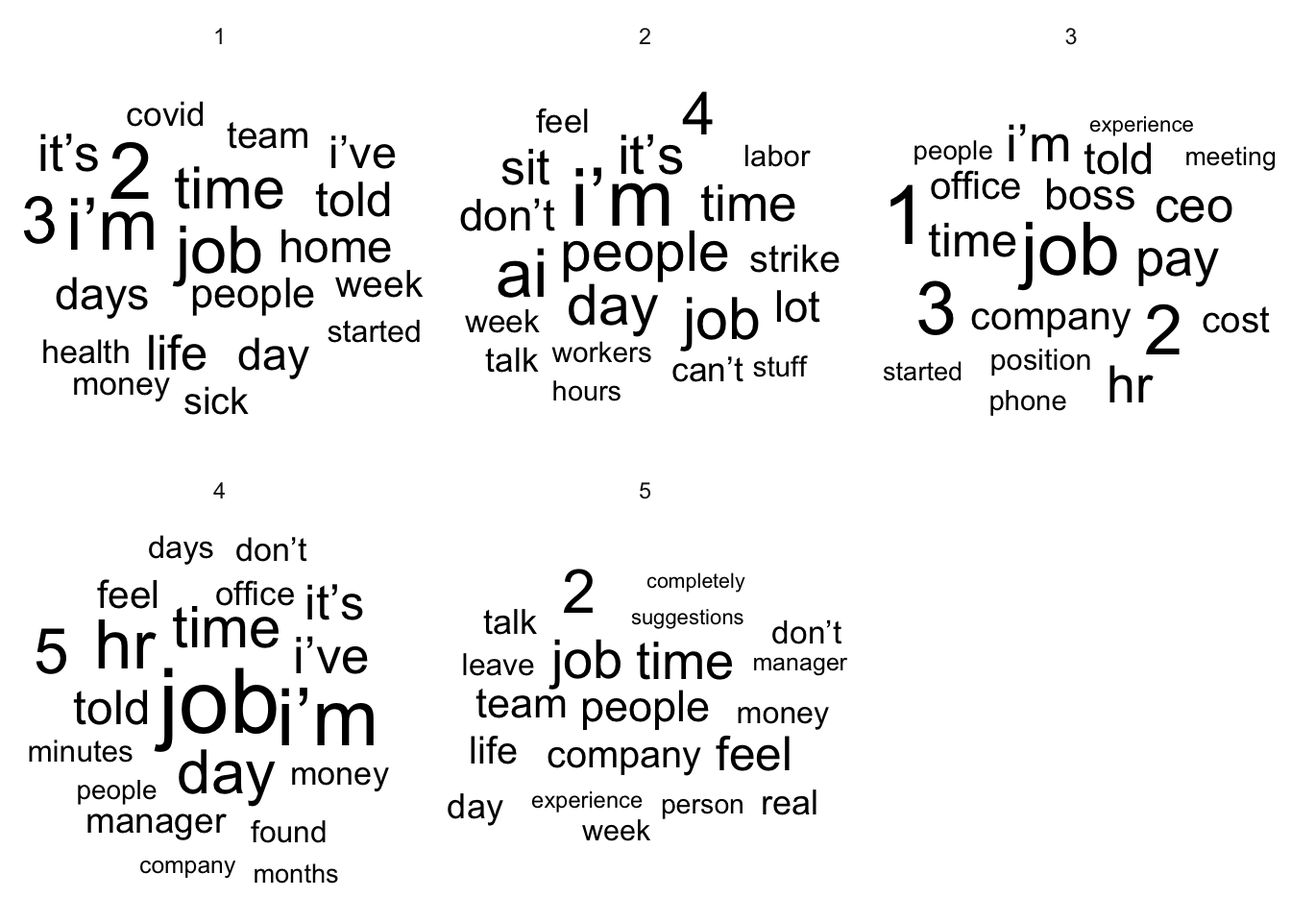
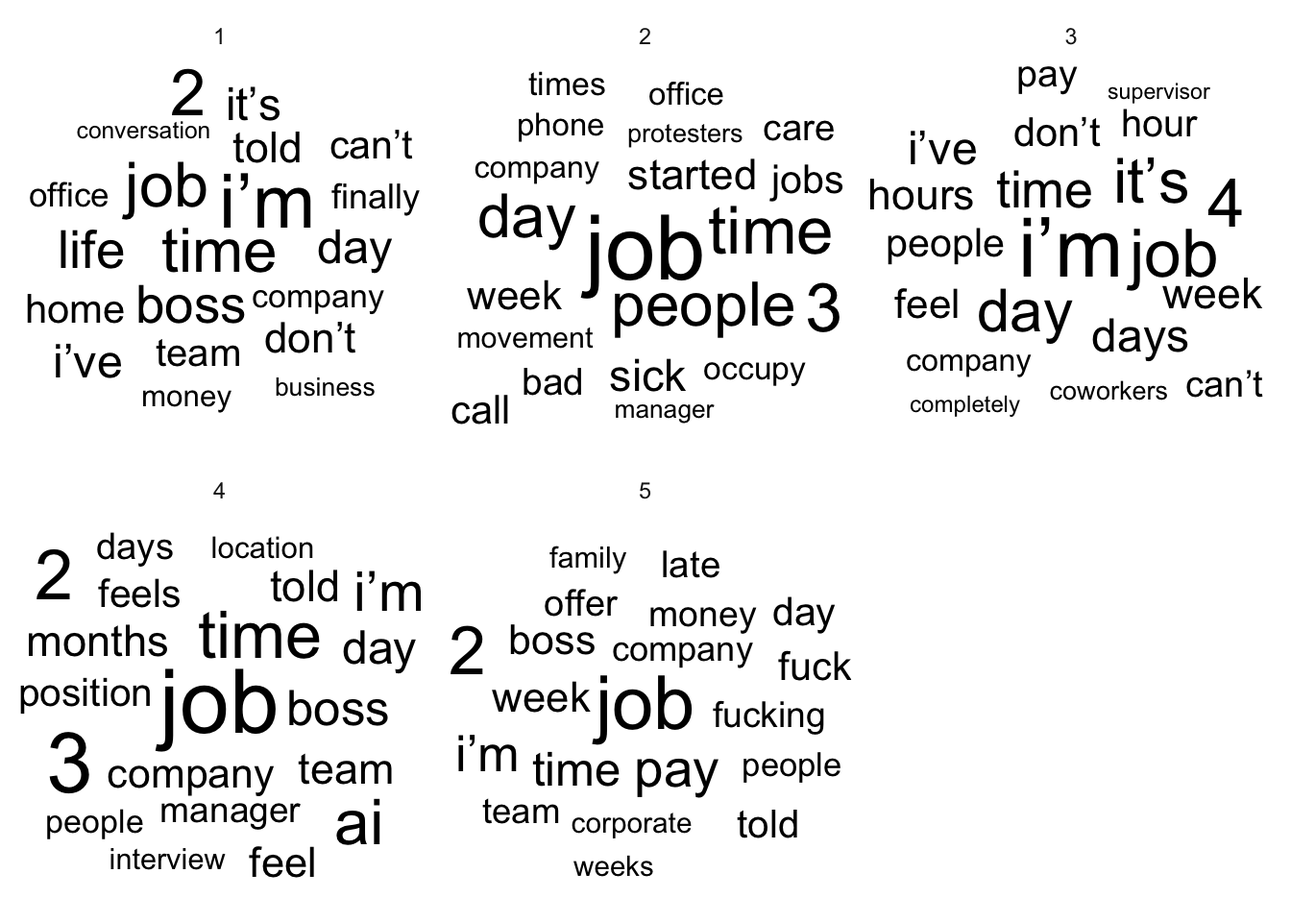
Built site for gh-pages

diff --git a/Work Examples/Work_Examples/ex1.html b/Work Examples/Work_Examples/ex1.html
@@ -261,46 +261,46 @@ $ allow_live_comments           &lt;lgl&gt; FALSE, FALSE, FALSE, FALSE, FALSE, F
 $ approved_at_utc               &lt;lgl&gt; NA, NA, NA, NA, NA, NA, NA, NA, NA, NA
 $ approved_by                   &lt;lgl&gt; NA, NA, NA, NA, NA, NA, NA, NA, NA, NA
 $ archived                      &lt;lgl&gt; FALSE, FALSE, FALSE, FALSE, FALSE, FALSE…
-$ author                        &lt;chr&gt; "Big-Requirement-9676", "JamesParkes", "…
-$ author_flair_background_color &lt;chr&gt; NA, NA, "#dadada", NA, "", NA, NA, "", N…
+$ author                        &lt;chr&gt; "PineappleFast9439", "peppa_pig_enthusia…
+$ author_flair_background_color &lt;lgl&gt; NA, NA, NA, NA, NA, NA, NA, NA, NA, NA
 $ author_flair_css_class        &lt;lgl&gt; NA, NA, NA, NA, NA, NA, NA, NA, NA, NA
-$ author_flair_richtext         &lt;list&gt; [], [], [&lt;data.frame[1 x 2]&gt;], [], &lt;NULL…
-$ author_flair_template_id      &lt;chr&gt; NA, NA, "f4010ba2-d420-11e8-a457-0ef8e7b…
-$ author_flair_text             &lt;chr&gt; NA, NA, "at work", NA, NA, NA, NA, NA, N…
-$ author_flair_text_color       &lt;chr&gt; NA, NA, "dark", NA, "dark", NA, NA, "dar…
-$ author_flair_type             &lt;chr&gt; "text", "text", "richtext", "text", NA,…
-$ author_fullname               &lt;chr&gt; "t2_qfaduhqq", "t2_96cas", "t2_2im5rydez…
+$ author_flair_richtext         &lt;list&gt; [], [], [], [], [], [], [], [], [], []
+$ author_flair_template_id      &lt;lgl&gt; NA, NA, NA, NA, NA, NA, NA, NA, NA, NA
+$ author_flair_text             &lt;lgl&gt; NA, NA, NA, NA, NA, NA, NA, NA, NA, NA
+$ author_flair_text_color       &lt;lgl&gt; NA, NA, NA, NA, NA, NA, NA, NA, NA, NA
+$ author_flair_type             &lt;chr&gt; "text", "text", "text", "text", "text", …
+$ author_fullname               &lt;chr&gt; "t2_2bpfk4i1pu", "t2_i429aj24", "t2_1ilb…
 $ author_is_blocked             &lt;lgl&gt; FALSE, FALSE, FALSE, FALSE, FALSE, FALSE…
-$ author_patreon_flair          &lt;lgl&gt; FALSE, FALSE, FALSE, FALSE, NA, FALSE, F…
-$ author_premium                &lt;lgl&gt; FALSE, FALSE, FALSE, FALSE, NA, FALSE, F…
+$ author_patreon_flair          &lt;lgl&gt; FALSE, FALSE, FALSE, FALSE, FALSE, FALSE…
+$ author_premium                &lt;lgl&gt; FALSE, FALSE, FALSE, FALSE, FALSE, FALSE…
 $ awarders                      &lt;list&gt; [], [], [], [], [], [], [], [], [], []
 $ banned_at_utc                 &lt;lgl&gt; NA, NA, NA, NA, NA, NA, NA, NA, NA, NA
 $ banned_by                     &lt;lgl&gt; NA, NA, NA, NA, NA, NA, NA, NA, NA, NA
-$ can_gild                      &lt;lgl&gt; FALSE, FALSE, FALSE, FALSE, FALSE, FALSE…
+$ can_gild                      &lt;lgl&gt; FALSE, FALSE, FALSE, FALSE, FALSE, FALS…
 $ can_mod_post                  &lt;lgl&gt; FALSE, FALSE, FALSE, FALSE, FALSE, FALSE…
 $ category                      &lt;lgl&gt; NA, NA, NA, NA, NA, NA, NA, NA, NA, NA
 $ clicked                       &lt;lgl&gt; FALSE, FALSE, FALSE, FALSE, FALSE, FALSE…
 $ content_categories            &lt;lgl&gt; NA, NA, NA, NA, NA, NA, NA, NA, NA, NA
 $ contest_mode                  &lt;lgl&gt; FALSE, FALSE, FALSE, FALSE, FALSE, FALSE…
-$ created                       &lt;int&gt; 1790130321, 1790128676, 1790125060, 179…
-$ created_utc                   &lt;int&gt; 1790130321, 1790128676, 1790125060, 1790…
+$ created                       &lt;int&gt; 1790702610, 1790701972, 1790699866, 1790…
+$ created_utc                   &lt;int&gt; 1790702610, 1790701972, 1790699866, 1790…
 $ discussion_type               &lt;lgl&gt; NA, NA, NA, NA, NA, NA, NA, NA, NA, NA
 $ distinguished                 &lt;lgl&gt; NA, NA, NA, NA, NA, NA, NA, NA, NA, NA
-$ domain                        &lt;chr&gt; "self.antiwork", "wsws.org", "self.antiw…
+$ domain                        &lt;chr&gt; "self.antiwork", "self.antiwork", "macru…
 $ downs                         &lt;int&gt; 0, 0, 0, 0, 0, 0, 0, 0, 0, 0
 $ edited                        &lt;lgl&gt; FALSE, FALSE, FALSE, FALSE, FALSE, FALSE…
 $ gilded                        &lt;int&gt; 0, 0, 0, 0, 0, 0, 0, 0, 0, 0
 $ gildings                      &lt;df[,0]&gt; &lt;data.frame[10 x 0]&gt;
 $ hidden                        &lt;lgl&gt; FALSE, FALSE, FALSE, FALSE, FALSE, FALSE…
-$ hide_score                    &lt;lgl&gt; TRUE, TRUE, TRUE, TRUE, TRUE, TRUE, TRUE…
-$ id                            &lt;chr&gt; "1wntha9", "1wnsvc5", "1wnrjja", "1wnr7a…
+$ hide_score                    &lt;lgl&gt; TRUE, TRUE, TRUE, TRUE, TRUE, TRUE, TRU…
+$ id                            &lt;chr&gt; "1wtg9ie", "1wtfzbv", "1wtf1ca", "1wteoq…
 $ is_created_from_ads_ui        &lt;lgl&gt; FALSE, FALSE, FALSE, FALSE, FALSE, FALSE…
 $ is_crosspostable              &lt;lgl&gt; FALSE, FALSE, FALSE, FALSE, FALSE, FALSE…
 $ is_meta                       &lt;lgl&gt; FALSE, FALSE, FALSE, FALSE, FALSE, FALSE…
 $ is_original_content           &lt;lgl&gt; FALSE, FALSE, FALSE, FALSE, FALSE, FALSE…
-$ is_reddit_media_domain        &lt;lgl&gt; FALSE, FALSE, FALSE, FALSE, TRUE, FALSE,…
-$ is_robot_indexable            &lt;lgl&gt; FALSE, TRUE, TRUE, FALSE, FALSE, TRUE, T…
-$ is_self                       &lt;lgl&gt; TRUE, FALSE, TRUE, FALSE, FALSE, TRUE, F…
+$ is_reddit_media_domain        &lt;lgl&gt; FALSE, FALSE, FALSE, FALSE, FALSE, FALSE…
+$ is_robot_indexable            &lt;lgl&gt; FALSE, FALSE, TRUE, TRUE, FALSE, TRUE, T…
+$ is_self                       &lt;lgl&gt; TRUE, TRUE, FALSE, FALSE, FALSE, TRUE, F…
 $ is_video                      &lt;lgl&gt; FALSE, FALSE, FALSE, FALSE, FALSE, FALSE…
 $ likes                         &lt;lgl&gt; NA, NA, NA, NA, NA, NA, NA, NA, NA, NA
 $ link_flair_background_color   &lt;chr&gt; "", "", "", "", "", "", "", "", "", ""
@@ -312,7 +312,7 @@ $ link_flair_type               &lt;chr&gt; "text", "text", "text", "text", "tex
 $ location_lat                  &lt;lgl&gt; NA, NA, NA, NA, NA, NA, NA, NA, NA, NA
 $ location_long                 &lt;lgl&gt; NA, NA, NA, NA, NA, NA, NA, NA, NA, NA
 $ location_name                 &lt;lgl&gt; NA, NA, NA, NA, NA, NA, NA, NA, NA, NA
-$ locked                        &lt;lgl&gt; FALSE, FALSE, FALSE, FALSE, FALSE, FA…
+$ locked                        &lt;lgl&gt; FALSE, FALSE, FALSE, FALSE, FALSE, FALSE…
 $ media                         &lt;lgl&gt; NA, NA, NA, NA, NA, NA, NA, NA, NA, NA
 $ media_embed                   &lt;df[,0]&gt; &lt;data.frame[10 x 0]&gt;
 $ media_only                    &lt;lgl&gt; FALSE, FALSE, FALSE, FALSE, FALSE, FALSE…
@@ -320,39 +320,39 @@ $ mod_note                      &lt;lgl&gt; NA, NA, NA, NA, NA, NA, NA, NA, NA, 
 $ mod_reason_by                 &lt;lgl&gt; NA, NA, NA, NA, NA, NA, NA, NA, NA, NA
 $ mod_reason_title              &lt;lgl&gt; NA, NA, NA, NA, NA, NA, NA, NA, NA, NA
 $ mod_reports                   &lt;list&gt; [], [], [], [], [], [], [], [], [], []
-$ name                          &lt;chr&gt; "t3_1wntha9", "t3_1wnsvc5", "t3_1wnrjja"…
-$ no_follow                     &lt;lgl&gt; TRUE, TRUE, FALSE, TRUE, TRUE, FALSE, TR…
+$ name                          &lt;chr&gt; "t3_1wtg9ie", "t3_1wtfzbv", "t3_1wtf1ca"…
+$ no_follow                     &lt;lgl&gt; TRUE, TRUE, TRUE, TRUE, TRUE, TRUE, TRUE…
 $ num_comments                  &lt;int&gt; 0, 0, 0, 0, 0, 0, 0, 0, 0, 0
 $ num_crossposts                &lt;int&gt; 0, 0, 0, 0, 0, 0, 0, 0, 0, 0
 $ num_reports                   &lt;lgl&gt; NA, NA, NA, NA, NA, NA, NA, NA, NA, NA
 $ over_18                       &lt;lgl&gt; FALSE, FALSE, FALSE, FALSE, FALSE, FALSE…
-$ permalink                     &lt;chr&gt; "/r/antiwork/comments/1wntha9/working_as…
+$ permalink                     &lt;chr&gt; "/r/antiwork/comments/1wtg9ie/gurgaon…
 $ pinned                        &lt;lgl&gt; FALSE, FALSE, FALSE, FALSE, FALSE, FALSE…
 $ pwls                          &lt;int&gt; 7, 7, 7, 7, 7, 7, 7, 7, 7, 7
 $ quarantine                    &lt;lgl&gt; FALSE, FALSE, FALSE, FALSE, FALSE, FALSE…
 $ removal_reason                &lt;lgl&gt; NA, NA, NA, NA, NA, NA, NA, NA, NA, NA
 $ removed_by                    &lt;lgl&gt; NA, NA, NA, NA, NA, NA, NA, NA, NA, NA
-$ removed_by_category           &lt;chr&gt; "moderator", NA, NA, "automod_filtered",…
+$ removed_by_category           &lt;chr&gt; "automod_filtered", "automod_filtered", …
 $ report_reasons                &lt;lgl&gt; NA, NA, NA, NA, NA, NA, NA, NA, NA, NA
-$ retrieved_on                  &lt;int&gt; 1790130347, 1790128697, 1790125081, 1790…
+$ retrieved_on                  &lt;int&gt; 1790702642, 1790701996, 1790699886, 1790…
 $ saved                         &lt;lgl&gt; FALSE, FALSE, FALSE, FALSE, FALSE, FALSE…
 $ score                         &lt;int&gt; 1, 1, 1, 1, 1, 1, 1, 1, 1, 1
 $ secure_media                  &lt;lgl&gt; NA, NA, NA, NA, NA, NA, NA, NA, NA, NA
 $ secure_media_embed            &lt;df[,0]&gt; &lt;data.frame[10 x 0]&gt;
-$ selftext                      &lt;chr&gt; "[removed]", "", "I've worked here a lit…
+$ selftext                      &lt;chr&gt; "[removed]", "[removed]", "They canceled…
 $ send_replies                  &lt;lgl&gt; TRUE, TRUE, TRUE, TRUE, TRUE, TRUE, TRUE…
 $ spoiler                       &lt;lgl&gt; FALSE, FALSE, FALSE, FALSE, FALSE, FALSE…
 $ stickied                      &lt;lgl&gt; FALSE, FALSE, FALSE, FALSE, FALSE, FALSE…
-$ subreddit                     &lt;chr&gt; "antiwork", "antiwork", "antiwork", "an…
+$ subreddit                     &lt;chr&gt; "antiwork", "antiwork", "antiwork", "ant…
 $ subreddit_id                  &lt;chr&gt; "t5_2y77d", "t5_2y77d", "t5_2y77d", "t5_…
 $ subreddit_name_prefixed       &lt;chr&gt; "r/antiwork", "r/antiwork", "r/antiwork"…
-$ subreddit_subscribers         &lt;int&gt; 3003986, 3003980, 3003978, 3003977, 3003…
+$ subreddit_subscribers         &lt;int&gt; 3005926, 3005923, 3005915, 3005914, 3005…
 $ subreddit_type                &lt;chr&gt; "public", "public", "public", "public", …
 $ suggested_sort                &lt;lgl&gt; NA, NA, NA, NA, NA, NA, NA, NA, NA, NA
-$ thumbnail                     &lt;chr&gt; "self", "https://external-preview.redd.i…
-$ thumbnail_height              &lt;int&gt; NA, 78, NA, NA, 118, NA, 73, NA, 140, NA
-$ thumbnail_width               &lt;int&gt; NA, 140, NA, NA, 140, NA, 140, NA, 140, …
-$ title                         &lt;chr&gt; "Working as a teen in taco bell", "30-ye…
+$ thumbnail                     &lt;chr&gt; "self", "self", "https://external-previ…
+$ thumbnail_height              &lt;int&gt; NA, NA, 78, 78, 78, NA, NA, 140, NA, NA
+$ thumbnail_width               &lt;int&gt; NA, NA, 140, 140, 140, NA, NA, 140, NA, …
+$ title                         &lt;chr&gt; "Gurgaon Startup Culture: Is forcing emp…
 $ top_awarded_type              &lt;lgl&gt; NA, NA, NA, NA, NA, NA, NA, NA, NA, NA
 $ total_awards_received         &lt;int&gt; 0, 0, 0, 0, 0, 0, 0, 0, 0, 0
 $ treatment_tags                &lt;list&gt; [], [], [], [], [], [], [], [], [], []
@@ -361,15 +361,15 @@ $ upvote_ratio                  &lt;int&gt; 1, 1, 1, 1, 1, 1, 1, 1, 1, 1
 $ url                           &lt;chr&gt; "https://www.reddit.com/r/antiwork/comme…
 $ user_reports                  &lt;list&gt; [], [], [], [], [], [], [], [], [], []
 $ view_count                    &lt;lgl&gt; NA, NA, NA, NA, NA, NA, NA, NA, NA, NA
-$ visited                       &lt;lgl&gt; FALSE, FALSE, FALSE, FALSE, FALSE, FA…
+$ visited                       &lt;lgl&gt; FALSE, FALSE, FALSE, FALSE, FALSE, FALSE…
 $ websocket_url                 &lt;chr&gt; "wss://k8s-lb.wss.redditmedia.com/link/1…
 $ wls                           &lt;int&gt; 7, 7, 7, 7, 7, 7, 7, 7, 7, 7
 $ outbound_link                 &lt;df[,3]&gt; &lt;data.frame[10 x 3]&gt;
-$ post_hint                     &lt;chr&gt; NA, "link", NA, NA, NA, NA, "link", NA, …
+$ post_hint                     &lt;chr&gt; NA, NA, "link", "link", "link", NA, NA, …
 $ preview                       &lt;df[,2]&gt; &lt;data.frame[10 x 2]&gt;
-$ url_overridden_by_dest        &lt;chr&gt; NA, "https://www.wsws.org/en/articles/20…
-$ crosspost_parent              &lt;chr&gt; NA, NA, NA, "t3_1wnr6z2", NA, NA, NA, NA…
-$ crosspost_parent_list         &lt;list&gt; &lt;NULL&gt;, &lt;NULL&gt;, &lt;NULL&gt;, [&lt;data.frame[1 …</code></pre>
+$ url_overridden_by_dest        &lt;chr&gt; NA, NA, "https://www.macrumors.com/2026/…
+$ crosspost_parent              &lt;chr&gt; NA, NA, NA, NA, NA, NA, "t3_1wtd4hu", NA…
+$ crosspost_parent_list         &lt;list&gt; &lt;NULL&gt;, &lt;NULL&gt;, &lt;NULL&gt;, &lt;NULL&gt;, &lt;NULL…</code></pre>
 </div>
 </div>
 <p>Now that that worked, I will pull 500 posts in batches of 100.</p>
@@ -398,20 +398,20 @@ $ crosspost_parent_list         &lt;list&gt; &lt;NULL&gt;, &lt;NULL&gt;, &lt;NUL
 <span id="cb8-22"><a href="#cb8-22" aria-hidden="true" tabindex="-1"></a>}</span></code></pre></div><button title="Copy to Clipboard" class="code-copy-button"><i class="bi"></i></button></div>
 <div class="cell-output cell-output-stdout">
 <pre><code>Pulling page 1 ...
-before_id set to: 1790020518 
-Got 100 posts, next before = 1790020518 
+before_id set to: 1790546091 
+Got 100 posts, next before = 1790546091 
 Pulling page 2 ...
-before_id set to: 1789853449 
-Got 100 posts, next before = 1789853449 
+before_id set to: 1790380002 
+Got 100 posts, next before = 1790380002 
 Pulling page 3 ...
-before_id set to: 1789729054 
-Got 100 posts, next before = 1789729054 
+before_id set to: 1790256629 
+Got 100 posts, next before = 1790256629 
 Pulling page 4 ...
-before_id set to: 1789590449 
-Got 100 posts, next before = 1789590449 
+before_id set to: 1790146434 
+Got 100 posts, next before = 1790146434 
 Pulling page 5 ...
-before_id set to: 1789498356 
-Got 100 posts, next before = 1789498356 </code></pre>
+before_id set to: 1790038898 
+Got 100 posts, next before = 1790038898 </code></pre>
 </div>
 <div class="code-copy-outer-scaffold"><div class="sourceCode cell-code" id="cb10"><pre class="sourceCode r code-with-copy"><code class="sourceCode r"><span id="cb10-1"><a href="#cb10-1" aria-hidden="true" tabindex="-1"></a><span class="co">#combining into a df</span></span>
 <span id="cb10-2"><a href="#cb10-2" aria-hidden="true" tabindex="-1"></a>posts_raw <span class="ot">&lt;-</span> <span class="fu">bind_rows</span>(</span>
@@ -487,10 +487,9 @@ Got 100 posts, next before = 1789498356 </code></pre>
 [109] "outbound_link"                 "post_hint"                    
 [111] "preview"                       "url_overridden_by_dest"       
 [113] "crosspost_parent"              "crosspost_parent_list"        
-[115] "gallery_data"                  "is_gallery"                   
-[117] "media_metadata"                "_meta"                        
-[119] "poll_data"                     "link_flair_template_id"       
-[121] "author_cakeday"               </code></pre>
+[115] "poll_data"                     "gallery_data"                 
+[117] "is_gallery"                    "media_metadata"               
+[119] "_meta"                         "link_flair_template_id"       </code></pre>
 </div>
 <div class="code-copy-outer-scaffold"><div class="sourceCode cell-code" id="cb14"><pre class="sourceCode r code-with-copy"><code class="sourceCode r"><span id="cb14-1"><a href="#cb14-1" aria-hidden="true" tabindex="-1"></a><span class="co">#Then selecting the text columns needed, ignoring everything else</span></span>
 <span id="cb14-2"><a href="#cb14-2" aria-hidden="true" tabindex="-1"></a>posts_raw_flat <span class="ot">&lt;-</span> posts_raw <span class="sc">%&gt;%</span></span>
@@ -552,11 +551,11 @@ Got 100 posts, next before = 1789498356 </code></pre>
 </div>
 <div class="code-copy-outer-scaffold"><div class="sourceCode cell-code" id="cb18"><pre class="sourceCode r code-with-copy"><code class="sourceCode r"><span id="cb18-1"><a href="#cb18-1" aria-hidden="true" tabindex="-1"></a><span class="fu">cat</span>(<span class="st">"Clean posts:"</span>, <span class="fu">nrow</span>(posts_clean), <span class="st">"</span><span class="sc">\n</span><span class="st">"</span>)</span></code></pre></div><button title="Copy to Clipboard" class="code-copy-button"><i class="bi"></i></button></div>
 <div class="cell-output cell-output-stdout">
-<pre><code>Clean posts: 155 </code></pre>
+<pre><code>Clean posts: 134 </code></pre>
 </div>
 <div class="code-copy-outer-scaffold"><div class="sourceCode cell-code" id="cb20"><pre class="sourceCode r code-with-copy"><code class="sourceCode r"><span id="cb20-1"><a href="#cb20-1" aria-hidden="true" tabindex="-1"></a><span class="fu">cat</span>(<span class="st">"Lost:"</span>, <span class="fu">nrow</span>(posts_raw_flat) <span class="sc">-</span> <span class="fu">nrow</span>(posts_clean), <span class="st">"</span><span class="sc">\n</span><span class="st">"</span>)</span></code></pre></div><button title="Copy to Clipboard" class="code-copy-button"><i class="bi"></i></button></div>
 <div class="cell-output cell-output-stdout">
-<pre><code>Lost: 345 </code></pre>
+<pre><code>Lost: 366 </code></pre>
 </div>
 <div class="code-copy-outer-scaffold"><div class="sourceCode cell-code" id="cb22"><pre class="sourceCode r code-with-copy"><code class="sourceCode r"><span id="cb22-1"><a href="#cb22-1" aria-hidden="true" tabindex="-1"></a><span class="co">#Checking- random sample</span></span>
 <span id="cb22-2"><a href="#cb22-2" aria-hidden="true" tabindex="-1"></a>posts_clean <span class="sc">%&gt;%</span></span>
@@ -564,24 +563,24 @@ Got 100 posts, next before = 1789498356 </code></pre>
 <span id="cb22-4"><a href="#cb22-4" aria-hidden="true" tabindex="-1"></a>  <span class="fu">select</span>(title, selftext, score, date) <span class="sc">%&gt;%</span></span>
 <span id="cb22-5"><a href="#cb22-5" aria-hidden="true" tabindex="-1"></a>  <span class="fu">print</span>()</span></code></pre></div><button title="Copy to Clipboard" class="code-copy-button"><i class="bi"></i></button></div>
 <div class="cell-output cell-output-stdout">
-<pre><code>                                                                                                                                                                   title
-1                                                                                                                       Am I the only one still writing my own messages?
-2                                                              HR consultant ascended to dictator of my place of work, tried to push me around, so I quit with no notice
-3                                                                               My company put our sick days on a leaderboard and now people are coming in sick to “win”
-4                                                                                                                                               Craziest call-in excuses
-5 If you want to dive deeper into the roots of our cultural problems, our relationship with work, and how food was put under lock and key - read Ishmael by Daniel Quinn
-                                                                                                                                                                                                                                                                                                                                                                                                                                                                                                                                                                                                                                                                                                                                                                                                                                                                                                                                                                                                                                                                                                                                                                                                                                                                                                                                                                                                                                                                                                                                                                                                                                                                                                                                                                                                                                                                                                                                                                                                                                                                                                                                         selftext
-1                                                                                                                                                                                                                                                                                                                                                                                                                                                                                                                                                                                                                                                                                                                                                                                                                                                                                                                                                                                                                                                                                                                                                                                                                                                                                                                                                                                                                                                                                                                                                                                                                                                                                                                     I work in IT and every day I receive IT tickets, emails, and instant messages from people in my company that are clearly written (at least in part) with AI. I have been communicating with people at work for years and I know the difference between how humans and computers write.\n\nDoes no one have the ability to read and respond without AI anymore? I feel like I just talk to computers in everything I do now.
-2 Man it feels good. I never liked her. She was inappropriately appointed to her position because she's friends with someone on the board of directors and she decided to rebuild the company in her image. This entailed multiple departmental massacres in which whole teams were fired overnight. A lot of my colleagues privately expressed fear and worry over their jobs and just wanted to stay off HR consultant's radar.\n\nNow, how does an HR consultant become supreme dictator of a company? I don't know, but the open secret is that it's actually her running the place and not our general manager. Every major decision seems to be her making, and the general manager simply implements it.\n\nI'm in a special position because I'm the IT manager, and I'm greatly overqualified for my job especially given my low salary ($52k/year). Although I've tried to stay off HR consultant's radar, I occasionally have to correspond with her, and every single time, she comes out the gates blazing with hostility. Not to mention her demands are often ridiculous and outside the realm of physical possibility.\n\nThis past Friday, she went too far. As the designated CCTV operator, she sent me a list of a few dozen things to comb through during a 6 hour window. These are things as simple as "see when this employee clocked in for their shift," others were as ridiculous as "follow these employees around and see what they did all day." Well, miss HR consultant, we have 28 cameras, and you want me to comb through nearly 200 hours of footage AND break everything down into dozens of individual clips, AND you want this turned around by Tuesday.\n\nI politely informed her that this is a lot of footage to comb through, and I'll do my best to get her what she requested, but I can't promise everything by Tuesday. I also have stuff to do this weekend.\n\nShe didn't like that. Called me on the phone once again, the threats of termination again, the entitlement and attitude and disrespect again. So I quit immediately. She deserves an IT manager who can give her what she wants.
-3                                                                                                                                                                                                                                                                                                                                                                                                                                                                                                                                                                                                                                                                                                                Our office rolled out this new “reliability challenge” a few weeks ago.\n\nThere's literally a screen in the break area showing every department and how many unscheduled absences they've had that month. Green if you're doing well, yellow if you're getting close, red if your department has the most.\n\nThe department with the fewest absences at the end of the month gets an extra half day off.\n\nAt first everyone laughed about it but now people are actually taking it seriously because nobody wants to be the person who turns their department yellow.\n\nOne woman came in coughing like crazy last week and kept saying she didn't want to cost us the half day. Imagine..\n\nSo instead of just giving people an extra half day off, they somehow invented a system where people feel guilty for using the sick time they already have.\n\nI already hated working here before this and stuff like this just makes me care even less. I probably spend a couple hours of most shifts doing absolutely nothing at this point. I'll finish what I actually need to do and then sit there scrolling, taking long bathroom breaks or staring at my screen because I have zero motivation to give this place anything extra.\n\nThey basically found a way to make coworkers pressure each other without management having to say anything, then probably wonder why nobody gives a shit about the job anymore.
-4                                                                                                                                                                                                                                                                                                                                                                                                                                                                                                                                                                                                                                                                                                                                                                                                                                                                                                                                                                                                                                                                                                                                                                                                                                                                                                                                                                                                                                                                                                                                                                                                                                                                                                                                                                                                                                                                                                                                                                                                                                                                      What are some of the craziest call-in excuses you’ve heard of at your job?
-5                                                                                                                                                                                                                                                                                                                                                                                                                                                                                                                                            I'm sure it will surprise and enlighten many of you. and like it did for me, hopefully it will inspire some hope in you as well. The narrative guides the reader in an analysis of our cultural beliefs and blind spots, revealing what we take for granted, and what we've forgotten as a species.  \nHere is a short description from ishmael . org\n\n&gt;The book opens with a deceptively ordinary personals ad: *“Teacher seeks pupil. Must have an earnest desire to save the world.”* Seeking a direction for his life, a young man answers the ad and is startled to find that the teacher is a lowland gorilla named Ishmael, a creature uniquely placed to vision anew the human story.  \n  \nIshmael’s paradigm of history is startlingly different from the one wired into our cultural consciousness. For Ishmael, our agricultural revolution was not a technological event but a moral one, a rebellion against an ethical structure inherent in the community of life since its foundation four billion years ago. Having escaped the restraints of this ethical structure, humankind made itself a global tyrant, wielding deadly force over all other species while lacking the wisdom to make its tyranny a beneficial one or even a sustainable one.  \n  \nThat tyranny is now hurtling us toward a planetary disaster of pollution and overpopulation. If we want to avoid that catastrophe, we need to work our way back to some fundamental truths: that we weren’t born a menace to the world and that no irresistible fate compels us to go on being a menace to the world.
+<pre><code>                                                                title
+1    Microwave in my office is useless and they refuse to replace it.
+2      team lead being petty abt people taking pto. How do i respond?
+3 Boss is requiring me to participate in our office blood drives [NE]
+4                Its the constant grind. Humans are not made for this
+5           Who thinks LinkedIn should start giving a dislike button?
+                                                                                                                                                                                                                                                                                                                                                                                                                                                                                                                                                                                                                                                                                                                                                                                                                                                                                                                                                                                                                                                                 selftext
+1                                                                                                                    I work for a company who definitely meets their sale margins every year. Half the employees are laborers working hourly, in office, and half are spoiled baby-corporate salaried workers who WFH 3 days a week. Our company has two floors of our building-- the corporate WFH staff have a nice new microwave in their kitchen. But the hourly laborers, on the other floor, who are required to take an unpaid lunch break? Our kitchen has a microwave from 3 decades ago that DOESNT EVEN HAVE A SPIN PLATE. Like, it wasn't even manufactured with one. It's that old. So obviously, it doesn't work well at all, just makes the food fall apart without heating it. We have no other way to heat food. Several of my colleagues have complained and they refuse to replace it bc it's "in working condition." Why do rich companies want their employees to suffer, when they could so easily solve their problems?? It makes no sense to me. 
+2                                                                                                                                                                                                                                                                                                                                                                                                                                                                                                                                                                                                                                                                                                                                                                                                                                        Team lead is in the teams chat talking about others taking pto and how "its the equivalent of one person taking off monday and friday and two on tuesday and wednesday"\n\nif thats so bad, then we are severely understaffed...
+3 \nThis week, the Red Cross is showing up to our office for a mobile blood drive. My boss knows that I'm a regular donor and specifically asked me to participate so she can add my donation to her team stats (which contributes to her annual review as a manager.)\n\nI told her I couldn't - I've donated within the last eight weeks outside of work so I won't be eligible yet. She accepted that as a "just this time" answer, but then told me that she expects me to make arrangements for all future blood drives so that my donations count for her manager stats.\n\nThing is, blood drives come to my office only a few times a year. Part of the reason I need to keep up with the regular eight-week schedule is because of my hereditary hemochromatosis - I need to donate every eight weeks to offload some of my excess iron. Reducing my donation frequency because my boss wants stats may have an adverse impact on my health down the road.\n\nLike, this can't be legal, can it? What is the most professional way to explain this to boss lady?
+4                                                                                                                      Hunter Gatherer gets lucky and hunts down a large animal with enough meat for the next 3 days? Well no more work for the next 3 days.\n\nFarmer gets tired? He just takes a 1-2 hour nap before waking up and continuing his work.\n\nBlacksmith is not in the mood? He just goes get a few drinks and returns to his work 2 hours later.\n\nHumans were not made for this constant regularity. Constantly sitting at their desk/job for 8-10 hours every day. Not allowed to leave or rest. Having to pretend that they are busy even when they have no work. Not allowed to go home even when they dont have any work. That is what makes us miserable.\n\nThe Taliban for example are demoralized by their office work and would prefer to fight and face death rather than working 8-5 every day: [https://time.com/6263906/taliban-afghanistan-office-work-quiet-quit/](https://time.com/6263906/taliban-afghanistan-office-work-quiet-quit/)
+5                                                                                                                                                                                                                                                                                                                                                                                                                                                                                                                                                                                                                                                                                                                                                                                                                                                                                                                                                 With the current situation on the feed and the type of content being posted lately, it feels so needy. Who else agrees?
   score                date
-1   201 2026-09-15 15:25:44
-2  1267 2026-09-19 13:08:27
-3     1 2026-09-21 21:54:01
-4    14 2026-09-16 20:45:44
-5    24 2026-09-16 09:15:52</code></pre>
+1    69 2026-09-23 13:38:43
+2     6 2026-09-22 14:09:44
+3   470 2026-09-26 06:52:10
+4  1426 2026-09-27 11:28:10
+5    22 2026-09-24 08:59:04</code></pre>
 </div>
 <div class="code-copy-outer-scaffold"><div class="sourceCode cell-code" id="cb24"><pre class="sourceCode r code-with-copy"><code class="sourceCode r"><span id="cb24-1"><a href="#cb24-1" aria-hidden="true" tabindex="-1"></a><span class="co">#Saving clean data</span></span>
 <span id="cb24-2"><a href="#cb24-2" aria-hidden="true" tabindex="-1"></a><span class="fu">write.csv</span>(posts_clean, <span class="st">"antiwork_posts_clean.csv"</span>, <span class="at">row.names =</span> <span class="cn">FALSE</span>)</span>
@@ -659,10 +658,7 @@ Got 100 posts, next before = 1789498356 </code></pre>
 <span id="cb31-4"><a href="#cb31-4" aria-hidden="true" tabindex="-1"></a>posts_reddit_clean <span class="sc">%&gt;%</span> <span class="fu">count</span>(lang, <span class="at">sort =</span> <span class="cn">TRUE</span>)</span></code></pre></div><button title="Copy to Clipboard" class="code-copy-button"><i class="bi"></i></button></div>
 <div class="cell-output cell-output-stdout">
 <pre><code>  lang   n
-1   en 151
-2   ja   2
-3   ar   1
-4   es   1</code></pre>
+1   en 134</code></pre>
 </div>
 </div>
 <p>Because there is a small fraction of non-English posts, I will drop them.</p>
@@ -1120,7 +1116,7 @@ date (1): year_month
 <span id="cb75-5"><a href="#cb75-5" aria-hidden="true" tabindex="-1"></a><span class="fu">library</span>(maditr)</span></code></pre></div><button title="Copy to Clipboard" class="code-copy-button"><i class="bi"></i></button></div>
 <div class="cell-output cell-output-stderr">
 <pre><code>
-To drop variable use NULL: let(mtcars, am = NULL) %&gt;% head()</code></pre>
+To select rows from data: rows(mtcars, am==0)</code></pre>
 </div>
 <div class="cell-output cell-output-stderr">
 <pre><code>

diff --git a/Research.html b/Research.html
@@ -151,7 +151,7 @@ ul.task-list li input[type="checkbox"] {
 <p>For my senior thesis, I designed and led a multi-year ethnographic study examining power and norm enforcement within party subcultures. I did a cultural comparison of two college party subcultures in the same neighborhood (frat parties and house shows), with 30+ interviews and 30+ hours of participant observation. I developed the concept of “privilege bargaining” to explain how individuals manage their privilege- a political strategy in seemingly “apolitical” spaces. Read my thesis <a href="https://docs.google.com/document/d/1XV6MBw8U5VmOj0Cy93DHVkXwpsGjXATJ/edit?usp=sharing&amp;ouid=107102385291614414220&amp;rtpof=true&amp;sd=true">here</a>.</p>
 <p>After that, I spent several years doing applied qualitative and mixed-methods research in social policy, studying workforce training, housing, and economic mobility at MDRC, before moving into UX and platform research, where I study how people interact with digital technologies and AI-mediated environments, with a focus on wellbeing and online trust. These may seem disparate, but my connecting focus is how communities, online and off, construct norms, and how platforms and spaces mediate that.</p>
 <p>I’m currently finishing an MS in Applied Quantitative Research for Social Analysis at Northeastern, concentrating in Computational Social Science, and building a toolkit that spans statistical modeling, machine learning and computational text analysis. I work primarily in R, with growing proficiency in Python and SQL.</p>
-<p>I recently completed an intensive in Distant Reading, NLP, and sentiment analysis (all in R) at the European Summer University in Digital Humanities, and I’m now turning those tools on the questions I’ve always cared about most for a thesis about online communities. More on <a href="https://docs.google.com/document/d/1W2SxaLdqhh6_nmexBUHYtsWg8ldbWafUfwSgCoR7wm0/edit?usp=sharing">that</a> soon!</p>
+<p>I recently completed an intensive in Distant Reading, NLP, and sentiment analysis (all in R) at the European Summer University in Digital Humanities. I’m now combining those tools with my GIS and computational social science knowledge to think about communities and surveillance. More on <a href="https://docs.google.com/document/d/1W2SxaLdqhh6_nmexBUHYtsWg8ldbWafUfwSgCoR7wm0/edit?usp=sharing">that</a> soon!</p>
 
 
 
